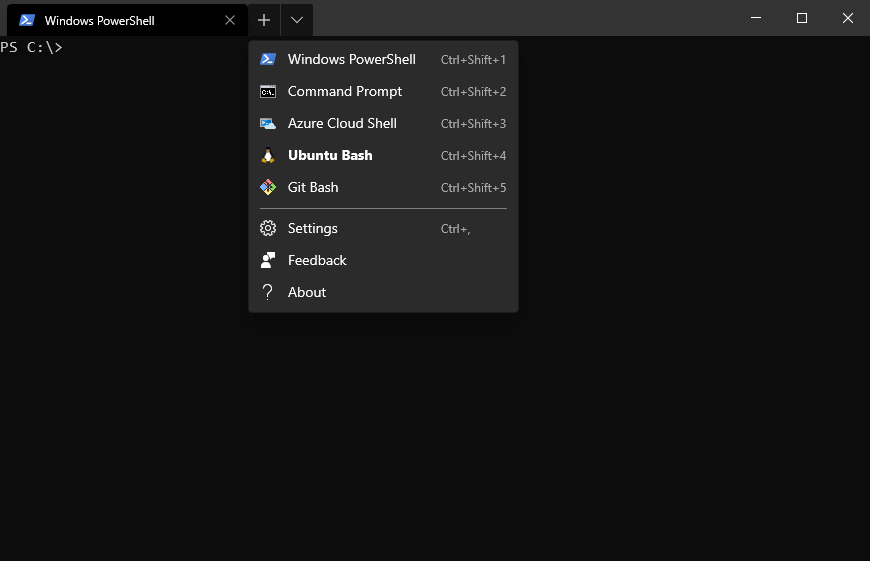
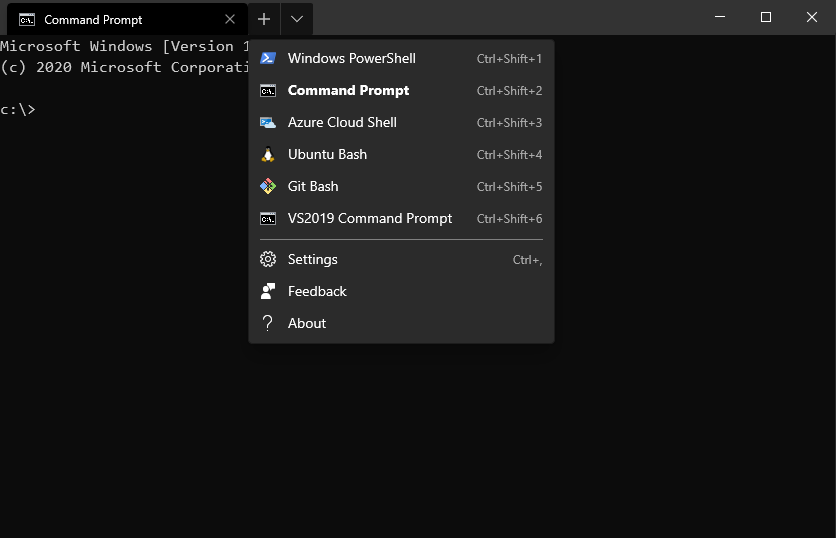
VS2019 Command Prompt added
+Old school Command Prompt as default

Changed region(s): [[0.0, 0.0, 0.6842, 0.6543], [0.9952, 0.0595, 1.0, 1.0], [0.9641, 0.0297, 0.9952, 0.0595]]

diff --git a/README.md b/README.md
@@ -14,13 +14,13 @@ git pull origin master
 ```
 
 ## Additional features :heavy_check_mark:
+* Open Command Prompt by default
 * Copy on mouse select
 * CTRL+T to open a tab
 * CTRL+W to close a tab
-* CTRL+SHIFT+4 to open an Ubuntu Bash shell (default)
-* CTRL+SHIFT+5 to open a Git Bash shell
+* CTRL+SHIFT+4 to open an [Ubuntu Bash](https://www.microsoft.com/en-us/p/ubuntu/9nblggh4msv6) shell (if installed)
+* CTRL+SHIFT+5 to open a [Git Bash](https://git-scm.com) shell (if installed)
+* CTRL+SHIFT+6 to open a [Visual Studio Enterprise 2019](https://visualstudio.microsoft.com/vs/) Developer Command Prompt (if installed)
 
 ## Example :rocket:
-Hint: [Ubuntu](https://www.microsoft.com/en-us/p/ubuntu/9nblggh4msv6)/WSL and [Git Bash](https://git-scm.com) need to be installed separately.
-
 ![WindowsTerminal](WindowsTerminal.PNG)
